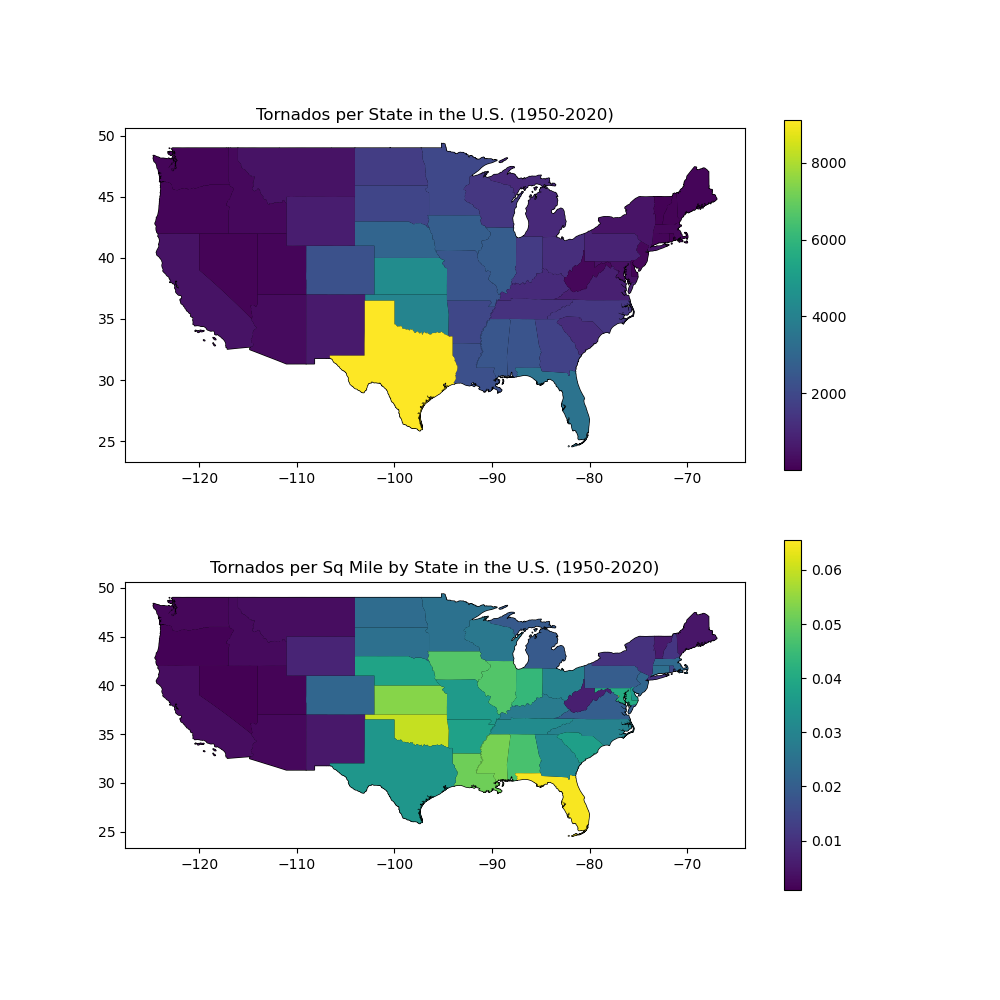
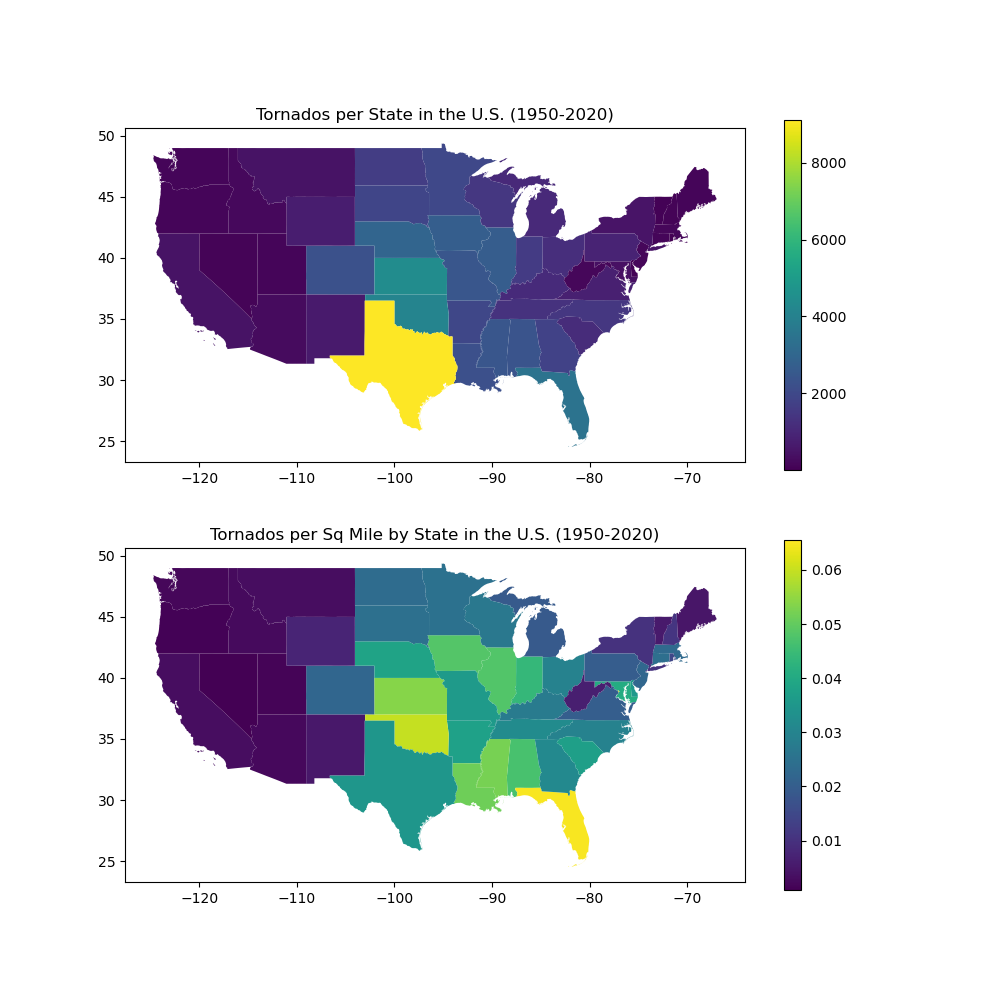
fixed tornadoes by state unnecesarry layering

diff --git a/analysis.py b/analysis.py
@@ -27,19 +27,16 @@ def plot_tornadoes_by_state(tornadoes: gpd.GeoDataFrame, states: pd.DataFrame):
     fig, [ax1, ax2] = plt.subplots(2, figsize=(10, 10))
     ax1.set_title('Tornados per State in the U.S. (1950-2020)')
     ax2.set_title('Tornados per Sq Mile by State in the U.S. (1950-2020)') # CHECK
-    states.plot(ax=ax1, color='#EEEEEE', edgecolor='black')
-    states.plot(ax=ax2, color='#EEEEEE', edgecolor='black')
     tornadoes['count'] = tornadoes['yr']
     tornadoes = tornadoes[['stf', 'count']]
     tornado_state_counts = tornadoes.groupby(by='stf').count()
     states['STATE'] = states['STATE'].apply(lambda x: int(x))
     # Merge counts of tornadoes per state into state data to be plotted
     merged = states.merge(right=tornado_state_counts, how='left', left_on='STATE', right_on='stf')
-    merged.plot(ax=ax1, column='count', legend=True)
-    merged_normalized = gpd.GeoDataFrame(merged)
     #CHECK IF CENSUSAREA = STATE AREA
-    merged_normalized['normalized_count'] = merged['count'] / merged['CENSUSAREA']
-    merged_normalized.plot(ax=ax2, column='normalized_count', legend=True)
+    merged['normalized_count'] = merged['count'] / merged['CENSUSAREA']
+    merged.plot(ax=ax1, column='count', legend=True)
+    merged.plot(ax=ax2, column='normalized_count', legend=True)
     plt.savefig('figures/tornado_count_1950-2020.png')
 
 
@@ -69,8 +66,8 @@ def main(run_all):
     most_likely_time_period(tornadoes.index.month, 'month', 'monthly', tornadoes)
     most_likely_time_period(tornadoes.index.week, 'week', 'weekly', tornadoes)
     most_likely_time_period(tornadoes.index.day, 'day', 'daily', tornadoes) # DOES DAY OF MONTH INSTEAD OF YEAR
+    plot_tornadoes_by_state(tornadoes, states)
     if run_all:
-        plot_tornadoes_by_state(tornadoes, states)
         print(most_in_year(tornadoes))
         plot_magnitudes(tornadoes, states)
 
